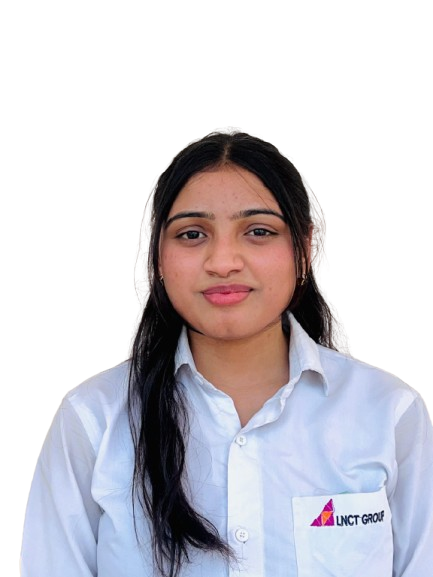
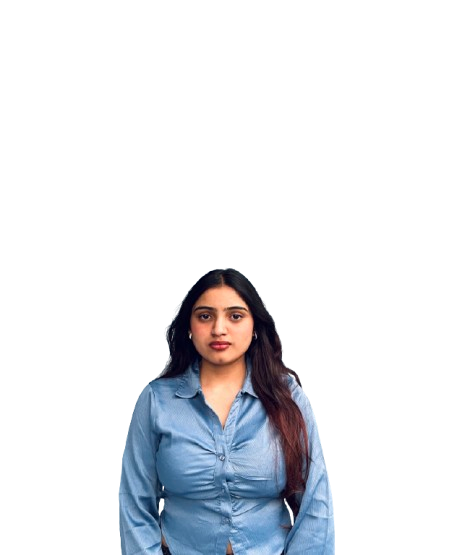
Fixed contact button navigation and UI improvements

diff --git a/src/main/resources/templates/resume.html b/src/main/resources/templates/resume.html
@@ -20,30 +20,22 @@
     <body class="d-flex flex-column h-100 bg-light resume-page">
         <main class="flex-shrink-0">
             <!-- Navigation-->
-            <nav class="navbar navbar-expand-lg py-3">
-  <div class="container px-5 d-flex justify-content-between align-items-center">
-
-    <!-- Left: Portfolio -->
-    <span class="navbar-brand text-white">
-      Portfolio
-    </span>
-
-    <!-- Right: Toggle Button -->
-    <button class="navbar-toggler" type="button" data-bs-toggle="collapse" data-bs-target="#navbarSupportedContent">
-      <span class="navbar-toggler-icon"></span>
-    </button>
-
-  </div>
 
   <!-- Menu -->
-  <div class="collapse navbar-collapse" id="navbarSupportedContent">
-    <ul class="navbar-nav ms-auto mb-2 mb-lg-0 small fw-bolder">
-      <li class="nav-item"><a class="nav-link text-white" th:href="@{/}">Home</a></li>
-      <li class="nav-item"><a class="nav-link text-white" th:href="@{/resume}">Resume</a></li>
-      <li class="nav-item"><a class="nav-link text-white" th:href="@{/projects}">Projects</a></li>
-      <li class="nav-item"><a class="nav-link text-white" th:href="@{/contact}">Contact</a></li>
-    </ul>
-  </div>
+           <nav class="navbar navbar-expand-lg navbar-light bg-white py-3">
+                <div class="container px-5">
+                    <span class=" text-white fw-bolder">Portfolio</span>
+                    <button class="navbar-toggler" type="button" data-bs-toggle="collapse" data-bs-target="#navbarSupportedContent" aria-controls="navbarSupportedContent" aria-expanded="false" aria-label="Toggle navigation"><span class="navbar-toggler-icon"></span></button>
+                    <div class="collapse navbar-collapse" id="navbarSupportedContent">
+                        <ul class="navbar-nav ms-auto mb-2 mb-lg-0 small fw-bolder">
+                            <li class="nav-item"><a class="nav-link" th:href="@{/}">Home</a></li>
+                            <li class="nav-item"><a class="nav-link" th:href="@{/resume}">Resume</a></li>
+                            <li class="nav-item"><a class="nav-link" th:href="@{/projects}">Projects</a></li>
+                            <li class="nav-item"><a class="nav-link" th:href="@{/contact}">Contact</a></li>
+                        </ul>
+                    </div>
+                </div>
+            </nav>
 </nav>
             <!-- Page Content-->
             <div class="container px-5 my-5">

diff --git a/src/main/resources/templates/projects.html b/src/main/resources/templates/projects.html
@@ -20,9 +20,9 @@
     <body class="d-flex flex-column h-100 bg-light">
         <main class="flex-shrink-0">
             <!-- Navigation-->
-            <nav class="navbar navbar-expand-lg navbar-light bg-white py-3">
+               <nav class="navbar navbar-expand-lg navbar-light bg-white py-3">
                 <div class="container px-5">
-                    <a class="navbar-brand" href="index.html"><span class="fw-bolder text-primary">Portfolio</span></a>
+                  <span class=" text-white fw-bolder">Portfolio</span>
                     <button class="navbar-toggler" type="button" data-bs-toggle="collapse" data-bs-target="#navbarSupportedContent" aria-controls="navbarSupportedContent" aria-expanded="false" aria-label="Toggle navigation"><span class="navbar-toggler-icon"></span></button>
                     <div class="collapse navbar-collapse" id="navbarSupportedContent">
                         <ul class="navbar-nav ms-auto mb-2 mb-lg-0 small fw-bolder">
@@ -98,7 +98,9 @@
                 <div class="container px-5 my-5">
                     <div class="text-center">
                         <h2 class="display-4 fw-bolder mb-4">Let's build something together</h2>
-                        <a class="btn btn-outline-light btn-lg px-5 py-3 fs-6 fw-bolder" href="contact.html">Contact me</a>
+                        <a th:href="@{/contact}" class="btn btn-outline-light">
+    Contact me
+</a>
                     </div>
                 </div>
             </section>

diff --git a/src/main/resources/templates/contact.html b/src/main/resources/templates/contact.html
@@ -22,7 +22,7 @@
             <!-- Navigation-->
             <nav class="navbar navbar-expand-lg navbar-light bg-white py-3">
                 <div class="container px-5">
-                    <a class="navbar-brand" href="index.html"><span class="fw-bolder text-primary">Portfolio</span></a>
+                    <span class=" fw-bolder">Portfolio</span>
                     <button class="navbar-toggler" type="button" data-bs-toggle="collapse" data-bs-target="#navbarSupportedContent" aria-controls="navbarSupportedContent" aria-expanded="false" aria-label="Toggle navigation"><span class="navbar-toggler-icon"></span></button>
                     <div class="collapse navbar-collapse" id="navbarSupportedContent">
                         <ul class="navbar-nav ms-auto mb-2 mb-lg-0 small fw-bolder">

diff --git a/src/main/resources/templates/home.html b/src/main/resources/templates/home.html
@@ -22,7 +22,7 @@
             <!-- Navigation-->
             <nav class="navbar navbar-expand-lg navbar-dark py-3">
                 <div class="container px-5">
-                    <span class="navbar-brand">Portfolio</span>
+                    <span class=" fw-bolder">Portfolio</span>
                     <button class="navbar-toggler" type="button" data-bs-toggle="collapse" data-bs-target="#navbarSupportedContent" aria-controls="navbarSupportedContent" aria-expanded="false" aria-label="Toggle navigation"><span class="navbar-toggler-icon"></span></button>
                     <div class="collapse navbar-collapse" id="navbarSupportedContent">
                         <ul class="navbar-nav ms-auto mb-2 mb-lg-0 small fw-bolder">

diff --git a/src/main/resources/static/assets/css/styles.css b/src/main/resources/static/assets/css/styles.css
@@ -12031,3 +12031,20 @@ footer a:hover {
 .scroll-animate:hover {
   transform: scale(1.05);
 }
+/* Remove left shift issue */
+.navbar-nav {
+    padding-left: 0;
+    margin-left: 0;
+}
+
+/* Exact styling like your 1st image */
+.menu-link {
+    font-size: 18px;
+    font-weight: 500;
+    margin-bottom: 12px;
+}
+
+/* Remove Bootstrap extra padding */
+.nav-link {
+    padding-left: 0 !important;
+}
